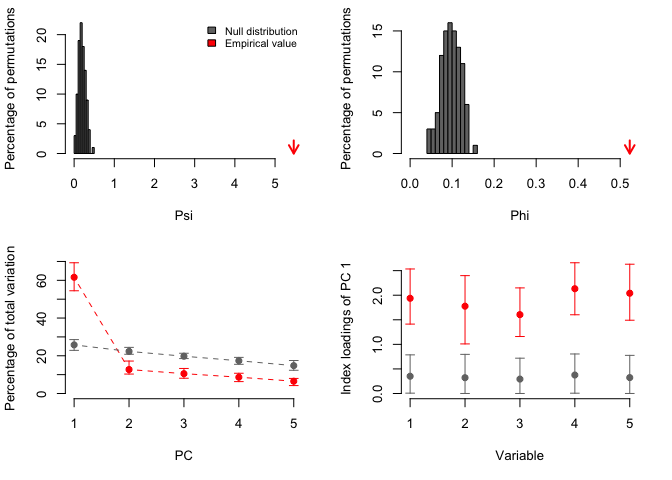
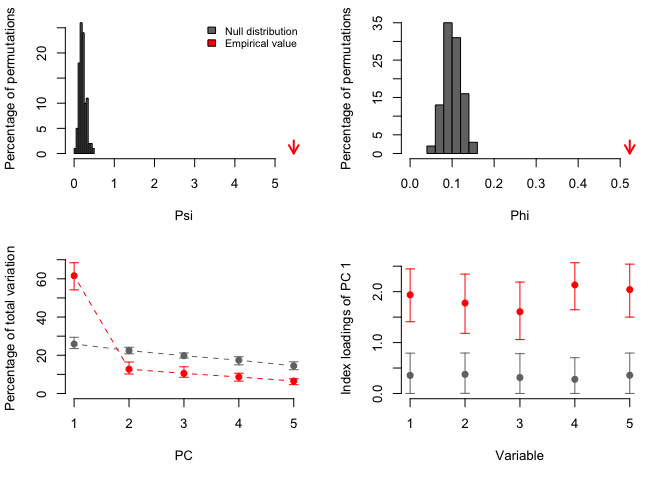
fix readme

diff --git a/README.md b/README.md
@@ -52,8 +52,8 @@ result<-PCAtest(ex0, 100, 100, 0.05, varcorr=FALSE, counter=FALSE, plot=TRUE)
 #> 100 bootstrap replicates, 100 random permutations
 #> ========================================================
 #> 
-#> Empirical Psi = 0.1691, Max null Psi = 0.4413, Min null Psi = 0.0488, p-value = 0.61
-#> Empirical Phi = 0.0920, Max null Phi = 0.1485, Min null Phi = 0.0494, p-value = 0.61
+#> Empirical Psi = 0.1691, Max null Psi = 0.4885, Min null Psi = 0.0598, p-value = 0.66
+#> Empirical Phi = 0.0920, Max null Phi = 0.1563, Min null Phi = 0.0547, p-value = 0.66
 #> 
 #> PCA is not significant!
 ```
@@ -78,16 +78,16 @@ result<-PCAtest(ex05, 100, 100, 0.05, varcorr=FALSE, counter=FALSE, plot=TRUE)
 #> 100 bootstrap replicates, 100 random permutations
 #> ========================================================
 #> 
-#> Empirical Psi = 5.4655, Max null Psi = 0.4659, Min null Psi = 0.0405, p-value = 0
-#> Empirical Phi = 0.5228, Max null Phi = 0.1526, Min null Phi = 0.0450, p-value = 0
+#> Empirical Psi = 5.4655, Max null Psi = 0.4888, Min null Psi = 0.0366, p-value = 0
+#> Empirical Phi = 0.5228, Max null Phi = 0.1563, Min null Phi = 0.0428, p-value = 0
 #> 
-#> Empirical eigenvalue #1 = 3.08098, Max null eigenvalue = 1.54294, p-value = 0
-#> Empirical eigenvalue #2 = 0.63526, Max null eigenvalue = 1.25989, p-value = 1
-#> Empirical eigenvalue #3 = 0.52603, Max null eigenvalue = 1.11689, p-value = 1
-#> Empirical eigenvalue #4 = 0.43234, Max null eigenvalue = 0.96902, p-value = 1
-#> Empirical eigenvalue #5 = 0.3254, Max null eigenvalue = 0.89265, p-value = 1
+#> Empirical eigenvalue #1 = 3.08098, Max null eigenvalue = 1.49515, p-value = 0
+#> Empirical eigenvalue #2 = 0.63526, Max null eigenvalue = 1.25543, p-value = 1
+#> Empirical eigenvalue #3 = 0.52603, Max null eigenvalue = 1.10212, p-value = 1
+#> Empirical eigenvalue #4 = 0.43234, Max null eigenvalue = 0.9713, p-value = 1
+#> Empirical eigenvalue #5 = 0.3254, Max null eigenvalue = 0.87495, p-value = 1
 #> 
-#> PC 1 is significant and accounts for 61.6% (95%-CI:54.5-69.3) of the total variation
+#> PC 1 is significant and accounts for 61.6% (95%-CI:54.2-68.4) of the total variation
 #> 
 #> Variables 1, 2, 3, 4, and 5 have significant loadings on PC 1
 ```
@@ -114,14 +114,14 @@ result<-PCAtest(ex1, 100, 100, 0.05, varcorr=FALSE, counter=FALSE, plot=TRUE)
 #> 100 bootstrap replicates, 100 random permutations
 #> ========================================================
 #> 
-#> Empirical Psi = 20.0000, Max null Psi = 0.3919, Min null Psi = 0.0453, p-value = 0
-#> Empirical Phi = 1.0000, Max null Phi = 0.1400, Min null Phi = 0.0476, p-value = 0
+#> Empirical Psi = 20.0000, Max null Psi = 0.4523, Min null Psi = 0.0642, p-value = 0
+#> Empirical Phi = 1.0000, Max null Phi = 0.1504, Min null Phi = 0.0567, p-value = 0
 #> 
-#> Empirical eigenvalue #1 = 5, Max null eigenvalue = 1.45252, p-value = 0
-#> Empirical eigenvalue #2 = 0, Max null eigenvalue = 1.24552, p-value = 1
-#> Empirical eigenvalue #3 = 0, Max null eigenvalue = 1.1067, p-value = 1
-#> Empirical eigenvalue #4 = 0, Max null eigenvalue = 0.97962, p-value = 1
-#> Empirical eigenvalue #5 = 0, Max null eigenvalue = 0.86539, p-value = 1
+#> Empirical eigenvalue #1 = 5, Max null eigenvalue = 1.45938, p-value = 0
+#> Empirical eigenvalue #2 = 0, Max null eigenvalue = 1.28214, p-value = 1
+#> Empirical eigenvalue #3 = 0, Max null eigenvalue = 1.11242, p-value = 1
+#> Empirical eigenvalue #4 = 0, Max null eigenvalue = 0.9752, p-value = 1
+#> Empirical eigenvalue #5 = 0, Max null eigenvalue = 0.87284, p-value = 1
 #> 
 #> PC 1 is significant and accounts for 100% (95%-CI:100-100) of the total variation
 #> 
@@ -149,18 +149,18 @@ result<-PCAtest(ants, 100, 100, 0.05, varcorr=FALSE, counter=FALSE, plot=TRUE)
 #> 100 bootstrap replicates, 100 random permutations
 #> ========================================================
 #> 
-#> Empirical Psi = 10.9186, Max null Psi = 2.2939, Min null Psi = 0.6062, p-value = 0
-#> Empirical Phi = 0.5099, Max null Phi = 0.2337, Min null Phi = 0.1201, p-value = 0
+#> Empirical Psi = 10.9186, Max null Psi = 2.8905, Min null Psi = 0.5908, p-value = 0
+#> Empirical Phi = 0.5099, Max null Phi = 0.2623, Min null Phi = 0.1186, p-value = 0
 #> 
-#> Empirical eigenvalue #1 = 3.84712, Max null eigenvalue = 2.19305, p-value = 0
-#> Empirical eigenvalue #2 = 1.52017, Max null eigenvalue = 1.64822, p-value = 0.18
-#> Empirical eigenvalue #3 = 0.70634, Max null eigenvalue = 1.46417, p-value = 1
-#> Empirical eigenvalue #4 = 0.41356, Max null eigenvalue = 1.12564, p-value = 1
-#> Empirical eigenvalue #5 = 0.34001, Max null eigenvalue = 0.9726, p-value = 1
-#> Empirical eigenvalue #6 = 0.14515, Max null eigenvalue = 0.80097, p-value = 1
-#> Empirical eigenvalue #7 = 0.02765, Max null eigenvalue = 0.60076, p-value = 1
+#> Empirical eigenvalue #1 = 3.84712, Max null eigenvalue = 2.27488, p-value = 0
+#> Empirical eigenvalue #2 = 1.52017, Max null eigenvalue = 1.73225, p-value = 0.15
+#> Empirical eigenvalue #3 = 0.70634, Max null eigenvalue = 1.39553, p-value = 1
+#> Empirical eigenvalue #4 = 0.41356, Max null eigenvalue = 1.19931, p-value = 1
+#> Empirical eigenvalue #5 = 0.34001, Max null eigenvalue = 0.95849, p-value = 1
+#> Empirical eigenvalue #6 = 0.14515, Max null eigenvalue = 0.77642, p-value = 1
+#> Empirical eigenvalue #7 = 0.02765, Max null eigenvalue = 0.66504, p-value = 1
 #> 
-#> PC 1 is significant and accounts for 55% (95%-CI:41.3-65.3) of the total variation
+#> PC 1 is significant and accounts for 55% (95%-CI:44.1-64.7) of the total variation
 #> 
 #> Variables 1, 2, 3, 4, 5, and 7 have significant loadings on PC 1
 ```
@@ -178,8 +178,6 @@ Gleason, T. C. and Staelin R. (1975) A proposal for handling missing
 data. Psychometrika, 40, 229–252.  
 Jackson, J. E. (1991) A User’s Guide to Principal Components. John Wiley
 & Sons, New York, USA.  
-Ringnér, M. (2008) What is principal component analysis? Nature
-Biotechnology, 26, 303–304.  
 ter Braak, C. F. J. (1990) Update notes: CANOCO (version 3.1).
 Agricultural Mattematic Group, Report LWA-88-02, Wagningen,
 Netherlands.  
